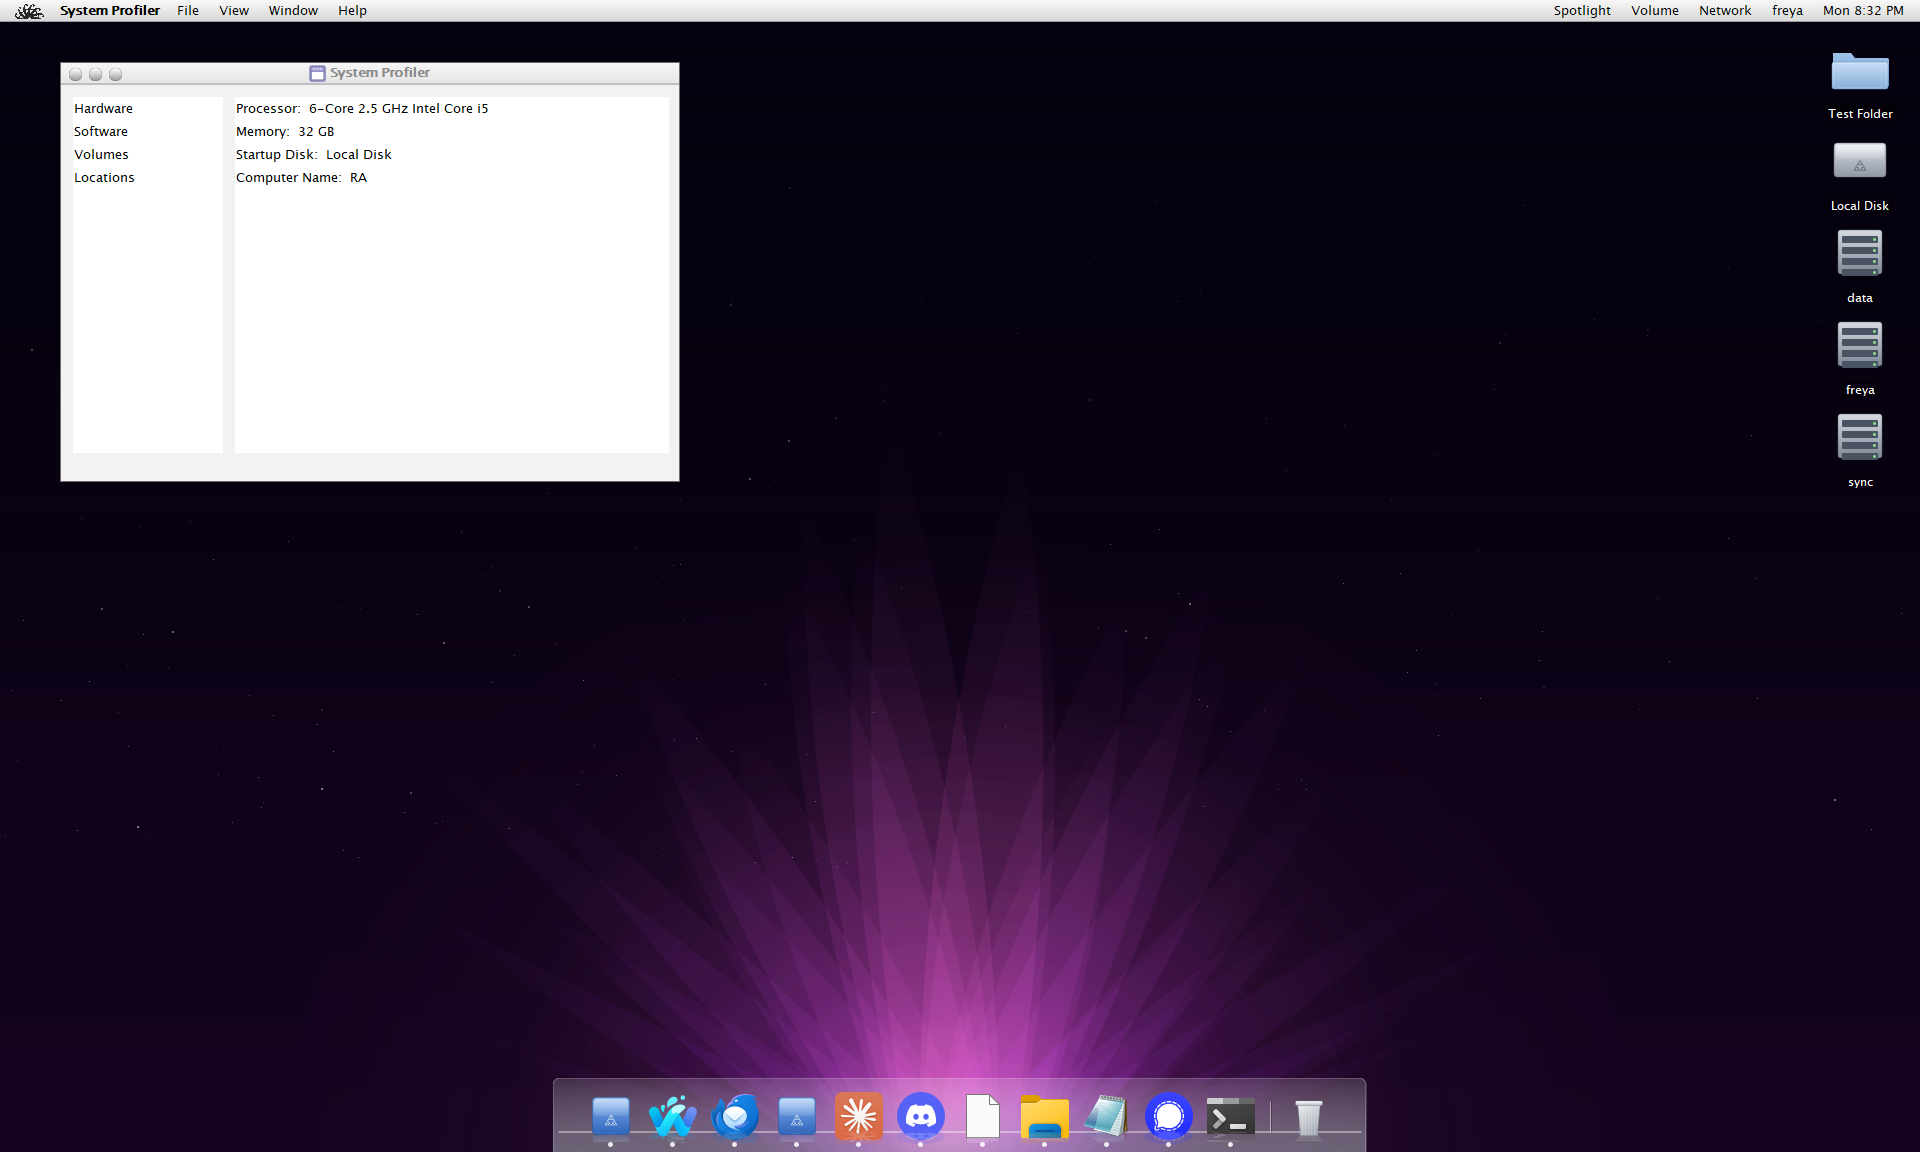
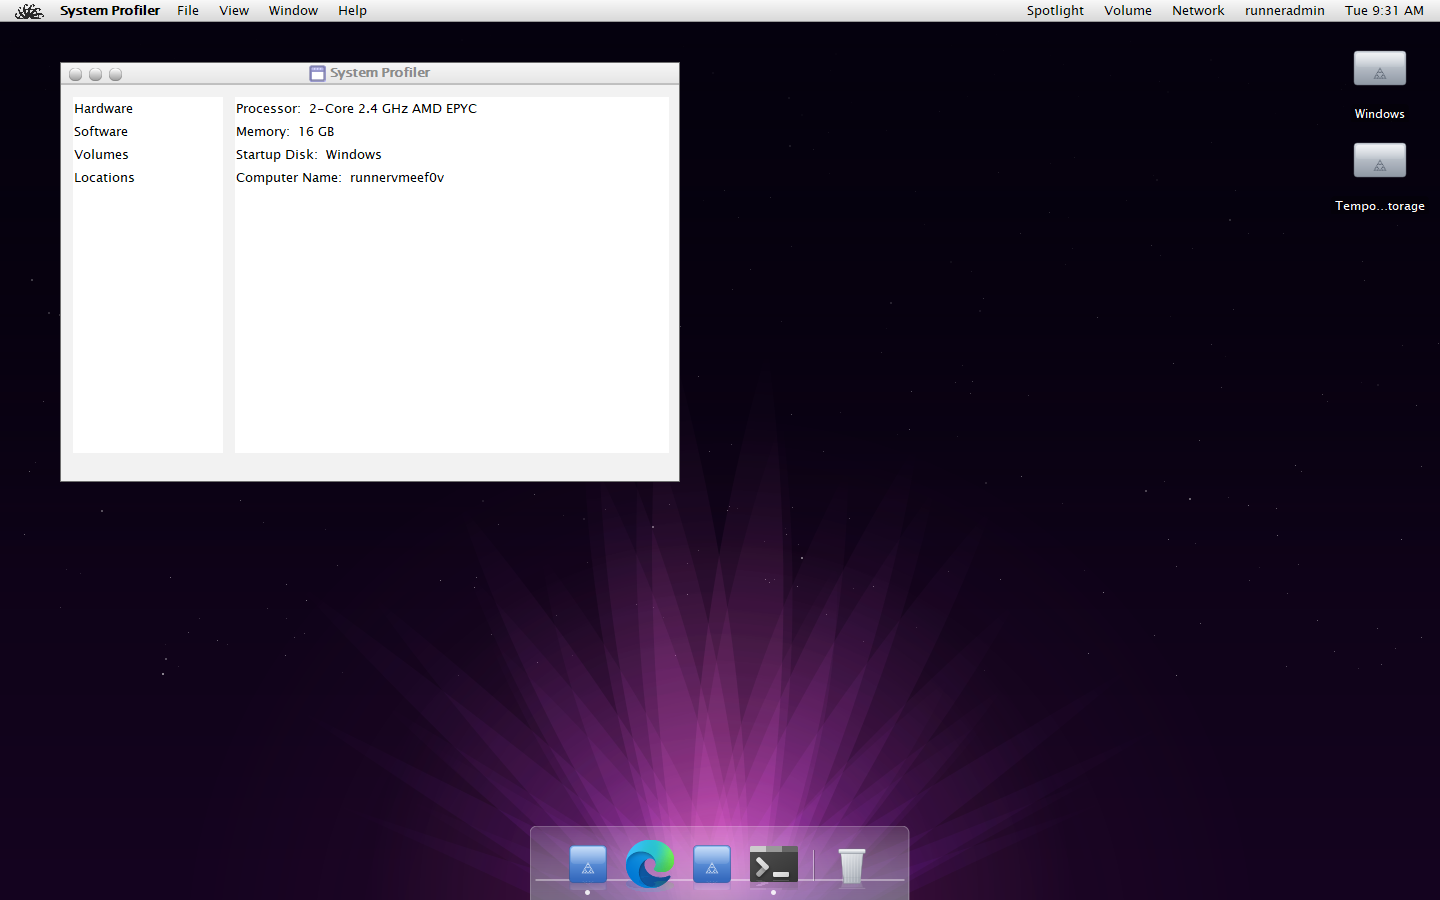
The README picture is one the build drew
A screenshot of a desktop is a screenshot of whoever's desktop it is.
The old one carried an account name, a set of drive labels and a Dock
full of whatever happened to be installed on the machine that took it.

This one was drawn by the build on a runner, so the drives are called
Windows and Temporary Storage and the account is called runneradmin.
Nothing in it belongs to anybody.

Changed region(s): [[0.0, 0.0, 1.0, 0.56], [0.2812, 0.9022, 0.7188, 1.0], [0.9375, 0.28, 1.0, 0.4044]]

diff --git a/README.md b/README.md
@@ -6,6 +6,9 @@ and it can take over from it.
 
 ![The desktop, with System Profiler open](docs/desktop.png)
 
+*Drawn by the build on a clean machine, which is why the drives are called Windows
+and the account is called runneradmin.*
+
 It is written in Java, and it is built like the system it imitates rather than painted to
 resemble it. Programs are Mach-O bundles installed on a volume of their own. A dynamic
 linker maps them and binds their symbols. An init process starts everything else and keeps
